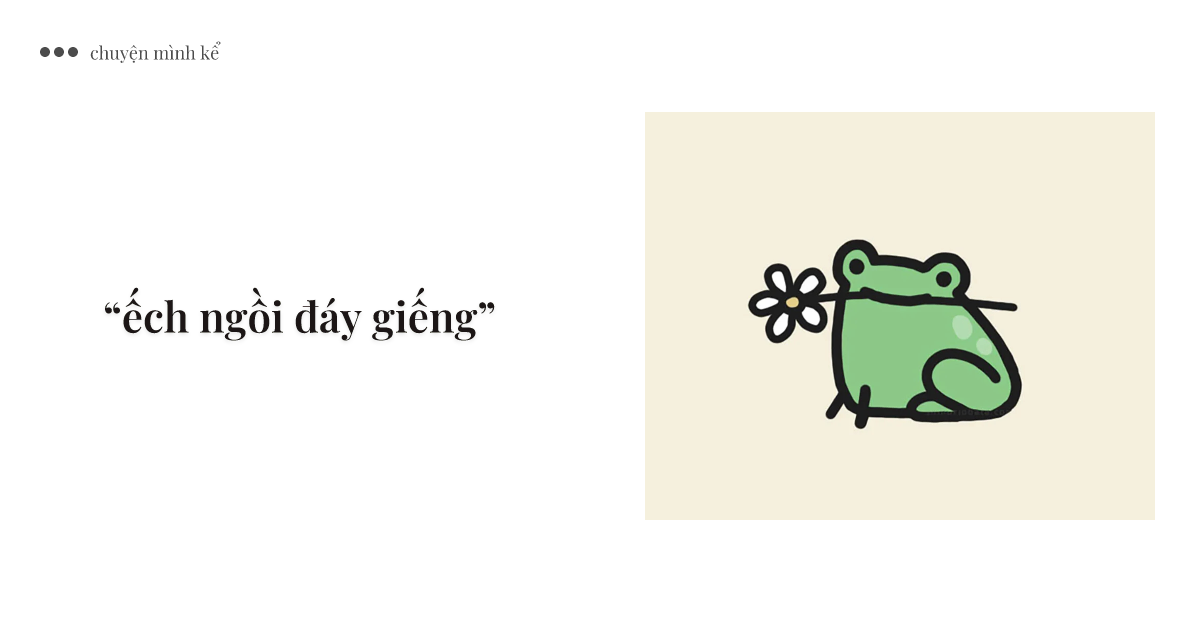
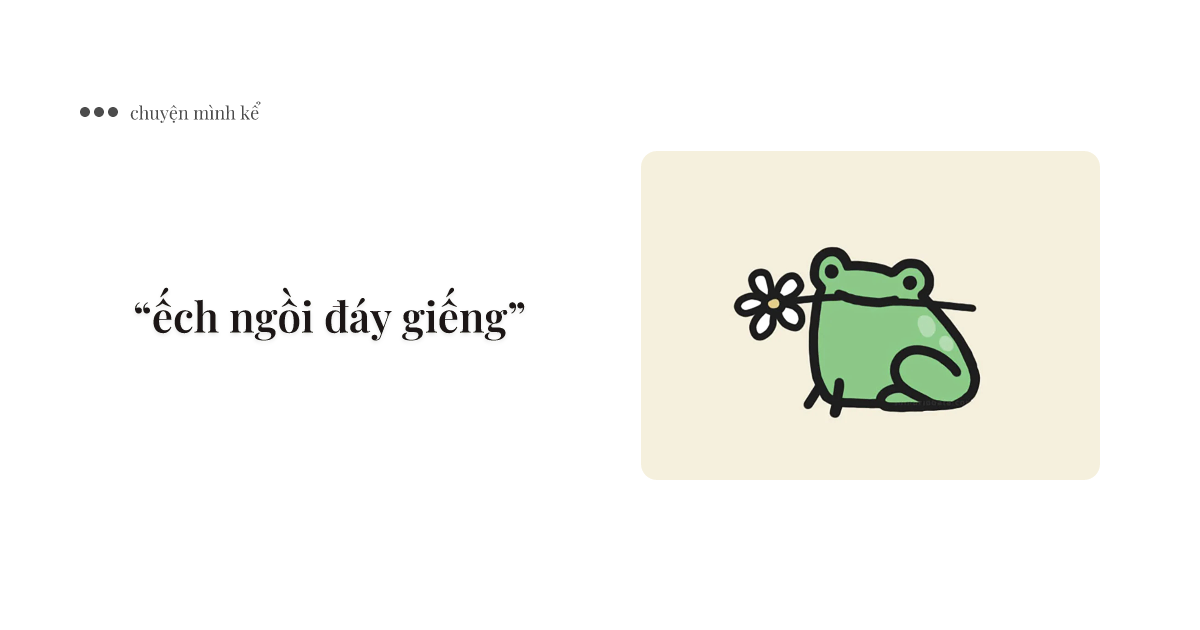
feat: add og image in main page

diff --git a/app/api/og/route.tsx b/app/api/og/route.tsx
@@ -43,6 +43,7 @@ export async function GET(request: NextRequest) {
             background: "white",
             fontFamily: "Playfair Display",
             position: "relative",
+            padding: "80px 60px",
           }}
         >
           <div
@@ -64,7 +65,7 @@ export async function GET(request: NextRequest) {
               flexDirection: "column",
               justifyContent: "center",
               alignItems: "center",
-              padding: "60px 40px",
+              padding: "40px 20px",
               position: "relative",
               zIndex: 2,
             }}
@@ -73,8 +74,8 @@ export async function GET(request: NextRequest) {
             <div
               style={{
                 position: "absolute",
-                top: "40px",
-                left: "40px",
+                top: "20px",
+                left: "20px",
                 display: "flex",
                 alignItems: "center",
                 gap: "4px",

diff --git a/app/layout.tsx b/app/layout.tsx
@@ -7,7 +7,18 @@ const playfair = Playfair_Display({ subsets: ["vietnamese"] });
 
 export const metadata: Metadata = {
   title: "chuyện mình kể",
-  description: "chuyện mình kể, còn mình là ai thì không quan trọng",
+  description:
+    "mình kể lại những mảnh nhỏ của ngày hôm qua, chuyện con mèo đang ngáp, chuyện cà phê chưa kịp nguội, chuyện mình còn giữ trong tim, chuyện mình học làm người.",
+  openGraph: {
+    images: [
+      {
+        url: "/og-images/_main.png",
+        width: 1200,
+        height: 630,
+        alt: "chuyện mình kể",
+      },
+    ],
+  },
 };
 
 export default function RootLayout({
